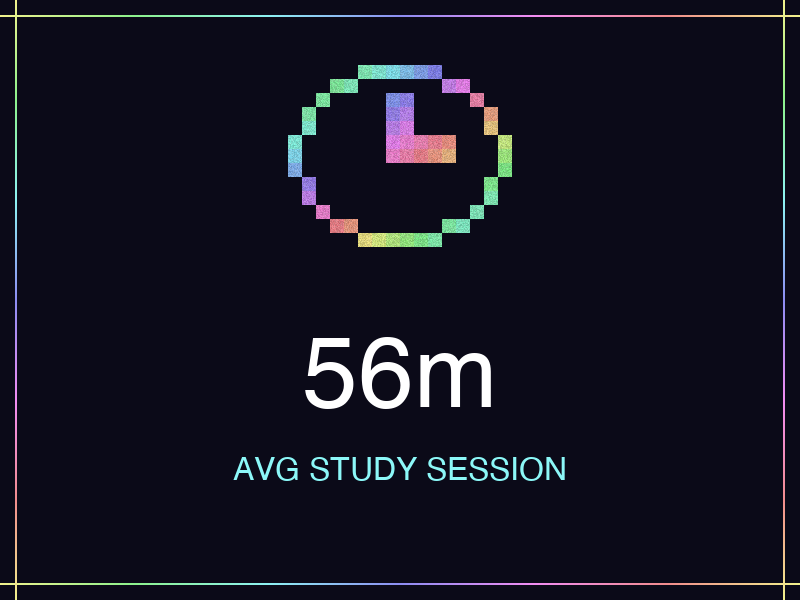
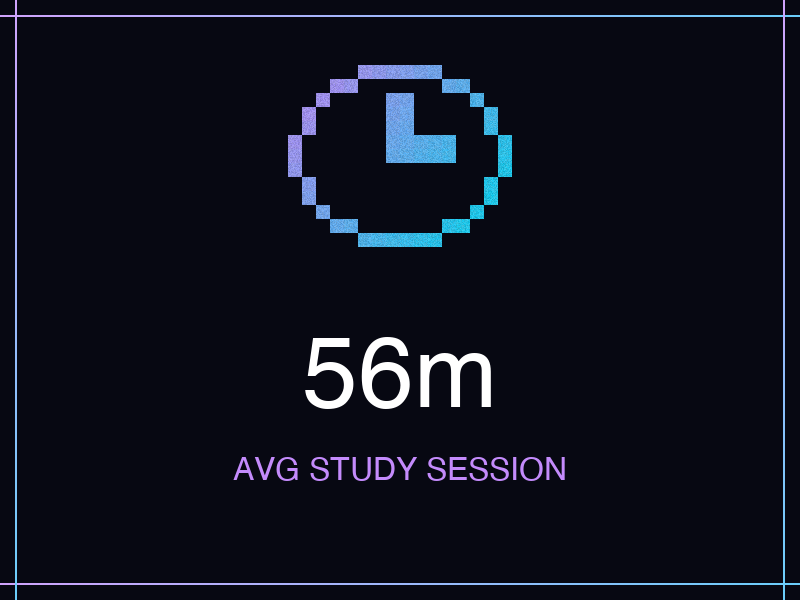
Sharpen dither matrix visibility, add storm roll-in entrance animation on home page, and refine Circular Gallery cards to metallic chroma aesthetic

diff --git a/src/components/HeroSection.tsx b/src/components/HeroSection.tsx
@@ -347,36 +347,42 @@ export function HeroSection() {
         }}
       />
 
-      {/* Layer 2: Subtle Ambient Slate & Blue Smoke Plumes */}
-      <div className="absolute inset-0 z-0 pointer-events-none overflow-hidden select-none opacity-50 mix-blend-screen">
-        {/* Left Soft Blue Smoke Plume */}
-        <div className="absolute top-[10%] -left-[15%] w-[65vw] h-[75vh] bg-[radial-gradient(ellipse_at_center,rgba(59,130,246,0.22)_0%,rgba(37,99,235,0.10)_40%,transparent_75%)] blur-3xl animate-pulse duration-[7000ms]" />
-        {/* Top-Right Soft Purple Fog */}
-        <div className="absolute top-[15%] -right-[15%] w-[60vw] h-[70vh] bg-[radial-gradient(ellipse_at_center,rgba(168,85,247,0.18)_0%,rgba(147,51,234,0.08)_45%,transparent_75%)] blur-3xl animate-pulse duration-[9000ms]" />
-      </div>
+      {/* Storm Roll-in Overlay Container: Starts with pristine image, then storm clouds & dither roll in smoothly! */}
+      <motion.div 
+        initial={{ opacity: 0, scale: 1.12, y: -40, filter: "blur(16px)" }}
+        animate={{ opacity: 1, scale: 1, y: 0, filter: "blur(0px)" }}
+        transition={{ duration: 2.2, delay: 0.2, ease: [0.16, 1, 0.3, 1] }}
+        className="absolute inset-0 z-0 pointer-events-none overflow-hidden select-none"
+      >
+        {/* Layer 2: Subtle Ambient Slate & Blue Smoke Plumes */}
+        <div className="absolute inset-0 opacity-60 mix-blend-screen">
+          {/* Left Electric Blue Smoke Plume */}
+          <div className="absolute top-[10%] -left-[15%] w-[65vw] h-[75vh] bg-[radial-gradient(ellipse_at_center,rgba(59,130,246,0.32)_0%,rgba(37,99,235,0.15)_40%,transparent_75%)] blur-3xl animate-pulse duration-[7000ms]" />
+          {/* Top-Right Purple Fog */}
+          <div className="absolute top-[15%] -right-[15%] w-[60vw] h-[70vh] bg-[radial-gradient(ellipse_at_center,rgba(168,85,247,0.25)_0%,rgba(147,51,234,0.12)_45%,transparent_75%)] blur-3xl animate-pulse duration-[9000ms]" />
+        </div>
 
-      {/* Layer 3: Interactive Dithered Smoke Wave WebGL Layer (Crisp & Visible) */}
-      <div className="absolute inset-0 z-0 pointer-events-none overflow-hidden select-none">
-        <Dither
-          waveColor={[0.18, 0.28, 0.52]}
-          disableAnimation={false}
-          enableMouseInteraction={true}
-          mouseRadius={0.30}
-          colorNum={6}
-          pixelSize={3}
-          waveAmplitude={0.35}
-          waveFrequency={3.5}
-          waveSpeed={0.04}
-        />
-      </div>
+        {/* Layer 3: Interactive Dithered Smoke Wave WebGL Layer (Crisp & Visible) */}
+        <div className="absolute inset-0">
+          <Dither
+            waveColor={[0.20, 0.32, 0.60]}
+            disableAnimation={false}
+            enableMouseInteraction={true}
+            mouseRadius={0.32}
+            colorNum={7}
+            pixelSize={2.5}
+            waveAmplitude={0.38}
+            waveFrequency={3.5}
+            waveSpeed={0.045}
+          />
+        </div>
 
-      {/* Layer 4: Dark Center Radial Backdrop Vignette for Text Legibility & Over-Dither Fog */}
-      <div className="absolute inset-0 z-0 pointer-events-none overflow-hidden select-none">
-        {/* Center Text Dark Vignette Focus */}
-        <div className="absolute inset-0 bg-[radial-gradient(ellipse_at_center,rgba(5,7,15,0.78)_0%,rgba(5,7,15,0.45)_55%,transparent_100%)]" />
-        <div className="absolute inset-0 bg-gradient-to-b from-black/40 via-transparent to-deep-navy" />
-        <div className="absolute inset-x-0 top-0 h-40 bg-gradient-to-b from-black/60 to-transparent" />
-      </div>
+        {/* Layer 4: Dark Center Radial Backdrop Vignette for Text Legibility & Over-Dither Fog */}
+        <div className="absolute inset-0">
+          <div className="absolute inset-0 bg-[radial-gradient(ellipse_at_center,rgba(5,7,15,0.78)_0%,rgba(5,7,15,0.45)_55%,transparent_100%)]" />
+          <div className="absolute inset-x-0 top-0 h-40 bg-gradient-to-b from-black/60 to-transparent" />
+        </div>
+      </motion.div>
 
       {/* Seamless Fade Transition at bottom */}
       <div className="absolute bottom-0 left-0 right-0 h-[180px] bg-gradient-to-t from-deep-navy via-deep-navy/40 to-transparent z-10 pointer-events-none" />

diff --git a/src/components/Dither.tsx b/src/components/Dither.tsx
@@ -87,10 +87,10 @@ vec3 dither(vec2 uv, vec3 color) {
   vec2 scaledCoord = floor(uv * resolution / pixelSize);
   int x = int(mod(scaledCoord.x, 8.0));
   int y = int(mod(scaledCoord.y, 8.0));
-  float threshold = bayerMatrix8x8[y * 8 + x] - 0.25;
+  float threshold = bayerMatrix8x8[y * 8 + x] - 0.2;
   float step = 1.0 / (colorNum - 1.0);
-  color += threshold * step;
-  float bias = 0.2;
+  color += threshold * step * 1.35;
+  float bias = 0.04;
   color = clamp(color - bias, 0.0, 1.0);
   return floor(color * (colorNum - 1.0) + 0.5) / (colorNum - 1.0);
 }
@@ -101,7 +101,7 @@ void main() {
   p.x *= resolution.x / resolution.y;
   
   vec2 samplePos = p;
-  float alpha = 0.92;
+  float alpha = 0.96;
   float f = 0.0;
   
   if (enableMouseInteraction == 1) {
@@ -124,8 +124,8 @@ void main() {
     samplePos += pushVector;
     
     f = pattern(samplePos) + holeMask * 0.35;
-    // Retain crisp dither texture opacity
-    alpha = clamp(0.92 - holeMask * 0.78, 0.18, 0.92);
+    // Crisp dither texture opacity
+    alpha = clamp(0.96 - holeMask * 0.76, 0.22, 0.96);
   } else {
     f = pattern(samplePos);
   }

diff --git a/scratch/generate_gallery_cards.py b/scratch/generate_gallery_cards.py
@@ -92,57 +92,43 @@ PIXEL_ICONS = {
     ]
 }
 
+# Metallic Chroma duotone color themes: Icy Titanium, Electric Indigo, Chrome Cyan, Violet Cobalt
 cards_data = [
-    {"num": "1,340", "label": "Active Scholars", "filename": "card1.png", "icon": "cap", "hue_shift": 0},
-    {"num": "56m", "label": "Avg Study Session", "filename": "card2.png", "icon": "clock", "hue_shift": 60},
-    {"num": "88.4%", "label": "Accuracy Rate", "filename": "card3.png", "icon": "target", "hue_shift": 120},
-    {"num": "22.4K", "label": "Network Visits", "filename": "card4.png", "icon": "eye", "hue_shift": 180},
-    {"num": "50", "label": "US States Active", "filename": "card5.png", "icon": "pin", "hue_shift": 240},
-    {"num": "100%", "label": "Free & Open Access", "filename": "card6.png", "icon": "lock", "hue_shift": 300}
+    {"num": "1,340", "label": "Active Scholars", "filename": "card1.png", "icon": "cap", "c1": (56, 189, 248), "c2": (168, 85, 247)},
+    {"num": "56m", "label": "Avg Study Session", "filename": "card2.png", "icon": "clock", "c1": (192, 132, 252), "c2": (56, 189, 248)},
+    {"num": "88.4%", "label": "Accuracy Rate", "filename": "card3.png", "icon": "target", "c1": (232, 121, 249), "c2": (129, 140, 248)},
+    {"num": "22.4K", "label": "Network Visits", "filename": "card4.png", "icon": "eye", "c1": (34, 211, 238), "c2": (99, 102, 241)},
+    {"num": "50", "label": "US States Active", "filename": "card5.png", "icon": "pin", "c1": (147, 197, 253), "c2": (192, 132, 252)},
+    {"num": "100%", "label": "Free & Open Access", "filename": "card6.png", "icon": "lock", "c1": (52, 211, 153), "c2": (56, 189, 248)}
 ]
 
-def hsl_to_rgb(h, s, l):
-    c = (1 - abs(2 * l - 1)) * s
-    x = c * (1 - abs((h / 60.0) % 2 - 1))
-    m = l - c / 2.0
-    if 0 <= h < 60:
-        r, g, b = c, x, 0
-    elif 60 <= h < 120:
-        r, g, b = x, c, 0
-    elif 120 <= h < 180:
-        r, g, b = 0, c, x
-    elif 180 <= h < 240:
-        r, g, b = 0, x, c
-    elif 240 <= h < 300:
-        r, g, b = x, 0, c
-    else:
-        r, g, b = c, 0, x
-    return (int((r + m) * 255), int((g + m) * 255), int((b + m) * 255))
-
 for data in cards_data:
-    # Deep obsidian navy/purple base background matching profile card
-    img = Image.new("RGBA", (width, height), (11, 10, 24, 255))
+    # Sleek dark graphite/obsidian background
+    img = Image.new("RGBA", (width, height), (7, 8, 18, 255))
     draw = ImageDraw.Draw(img)
     
-    hue_offset = data["hue_shift"]
+    c1, c2 = data["c1"], data["c2"]
     
-    # Outer Rainbow Chroma Glass Border
+    # Outer Metallic Chrome Glass Border
     for i in range(width):
-        border_hue = (hue_offset + (i / float(width)) * 360) % 360
-        r_b, g_b, b_b = hsl_to_rgb(border_hue, 0.8, 0.65)
-        # Top and bottom borders
+        t = i / float(width)
+        r = int(c1[0] * (1 - t) + c2[0] * t)
+        g = int(c1[1] * (1 - t) + c2[1] * t)
+        b = int(c1[2] * (1 - t) + c2[2] * t)
         for bw in range(2):
-            img.putpixel((i, 15 + bw), (r_b, g_b, b_b, 180))
-            img.putpixel((i, height - 16 - bw), (r_b, g_b, b_b, 180))
+            img.putpixel((i, 15 + bw), (r, g, b, 190))
+            img.putpixel((i, height - 16 - bw), (r, g, b, 190))
             
     for j in range(height):
-        border_hue = (hue_offset + (j / float(height)) * 360) % 360
-        r_b, g_b, b_b = hsl_to_rgb(border_hue, 0.8, 0.65)
+        t = j / float(height)
+        r = int(c1[0] * (1 - t) + c2[0] * t)
+        g = int(c1[1] * (1 - t) + c2[1] * t)
+        b = int(c1[2] * (1 - t) + c2[2] * t)
         for bw in range(2):
-            img.putpixel((15 + bw, j), (r_b, g_b, b_b, 180))
-            img.putpixel((width - 16 - bw, j), (r_b, g_b, b_b, 180))
+            img.putpixel((15 + bw, j), (r, g, b, 190))
+            img.putpixel((width - 16 - bw, j), (r, g, b, 190))
             
-    # Draw Holographic Rainbow Chroma Pixel-Art Icon
+    # Draw Sleek Metallic Chroma Pixel-Art Icon
     icon_matrix = PIXEL_ICONS[data["icon"]]
     scale = 14
     icon_w = len(icon_matrix[0]) * scale
@@ -156,20 +142,22 @@ for data in cards_data:
                 px = start_x + c_idx * scale
                 py = start_y + r_idx * scale
                 
-                # Dynamic multi-tonal rainbow chroma color per pixel position
-                px_hue = (hue_offset + c_idx * 18 + r_idx * 22) % 360
-                r_pix, g_pix, b_pix = hsl_to_rgb(px_hue, 0.85, 0.72)
+                # Smooth metallic chroma transition across icon matrix
+                t_pixel = (c_idx + r_idx * 0.8) / 16.0
+                r_pix = int(c1[0] * (1 - t_pixel) + c2[0] * t_pixel)
+                g_pix = int(c1[1] * (1 - t_pixel) + c2[1] * t_pixel)
+                b_pix = int(c1[2] * (1 - t_pixel) + c2[2] * t_pixel)
                 
                 for bx in range(scale):
                     for by in range(scale):
-                        noise = random.uniform(0.78, 1.0)
+                        noise = random.uniform(0.82, 1.0)
                         red = int(min(255, r_pix * noise))
                         green = int(min(255, g_pix * noise))
                         blue = int(min(255, b_pix * noise))
-                        alpha = int(random.uniform(0.8, 1.0) * 255)
+                        alpha = int(random.uniform(0.82, 1.0) * 255)
                         img.putpixel((px + bx, py + by), (red, green, blue, alpha))
 
-    # Render Fonts
+    # Render Typography
     try:
         font_num = ImageFont.truetype("/System/Library/Fonts/Helvetica.ttc", 100)
         font_label = ImageFont.truetype("/System/Library/Fonts/Helvetica.ttc", 32)
@@ -186,15 +174,13 @@ for data in cards_data:
     bbox_lbl = draw.textbbox((0, 0), label_text, font=font_label)
     w_lbl = bbox_lbl[2] - bbox_lbl[0]
     
-    # Text Placement
     draw.text(((width - w_num) // 2, 330), num_text, font=font_num, fill=(255, 255, 255, 255))
     
-    # Label in Chroma accent color
-    lbl_r, lbl_g, lbl_b = hsl_to_rgb((hue_offset + 120) % 360, 0.9, 0.75)
-    draw.text(((width - w_lbl) // 2, 455), label_text, font=font_label, fill=(lbl_r, lbl_g, lbl_b, 240))
+    # Label in metallic chroma tint
+    draw.text(((width - w_lbl) // 2, 455), label_text, font=font_label, fill=(c1[0], c1[1], c1[2], 240))
     
     filepath = os.path.join("/Users/pallavipatil/AP-LABs/AP-Lab/public/images/stats", data["filename"])
     img.save(filepath, "PNG")
-    print(f"Generated rainbow chroma card: {filepath}")
+    print(f"Generated metallic chroma card: {filepath}")
 
-print("All rainbow chroma gallery stat cards generated successfully!")
+print("All metallic chroma gallery stat cards generated successfully!")
